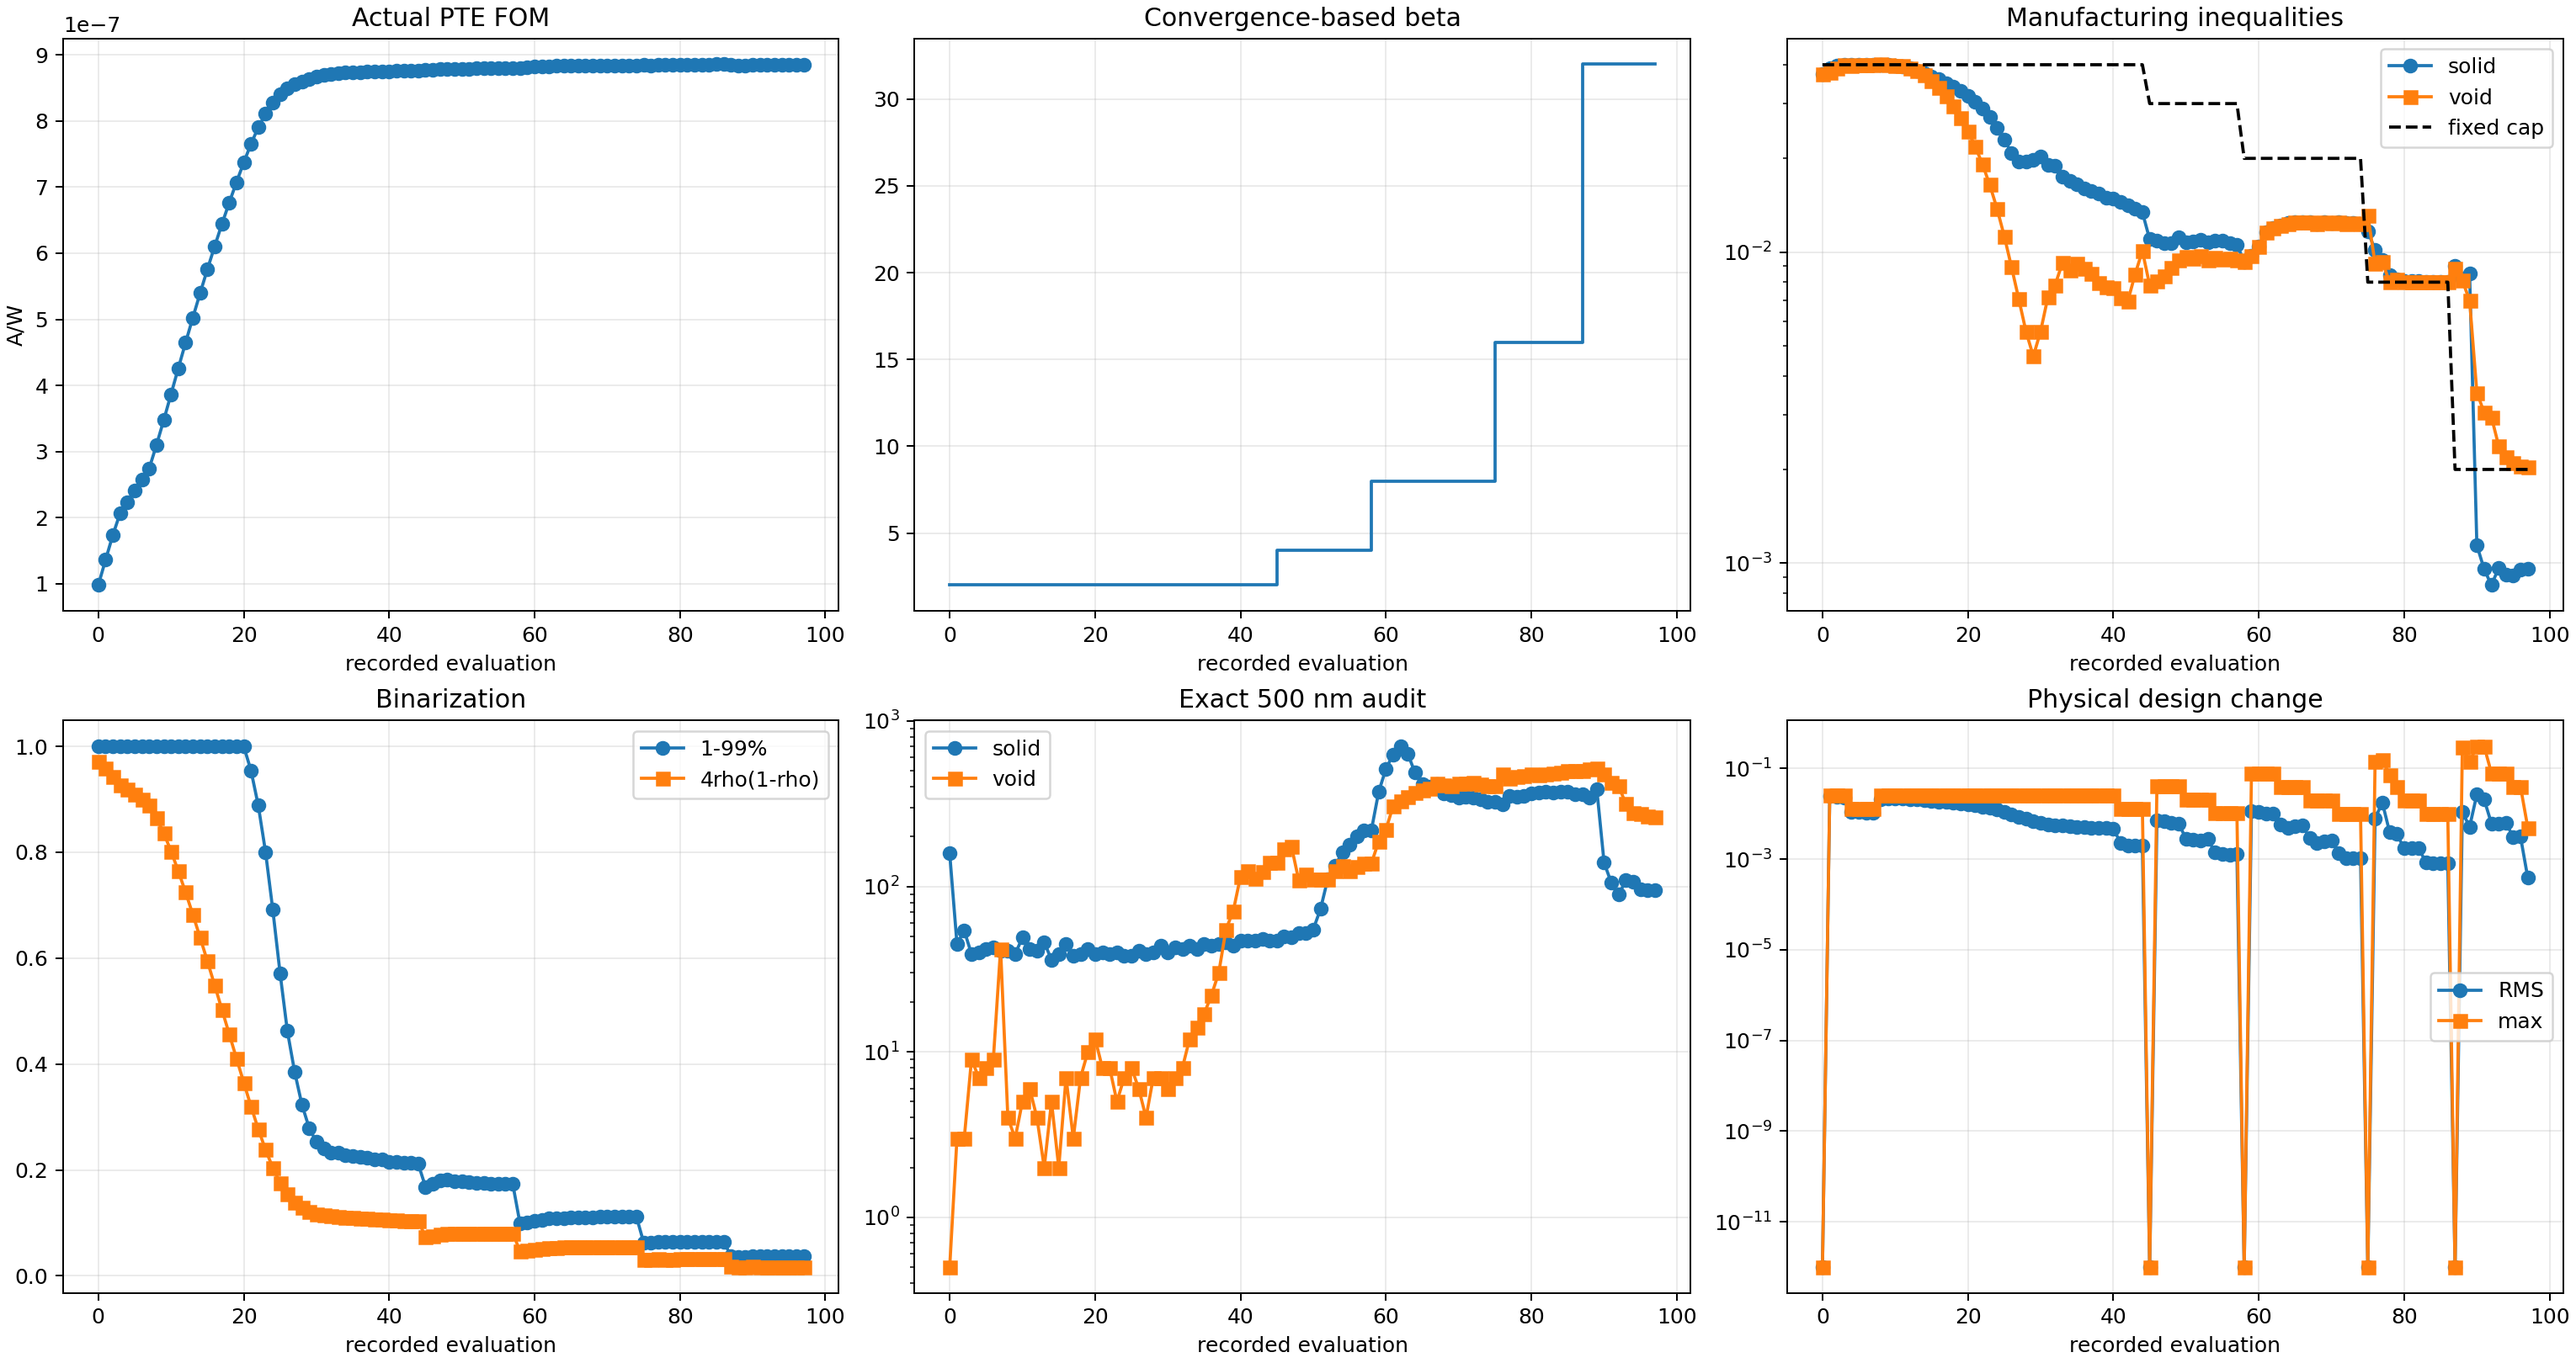
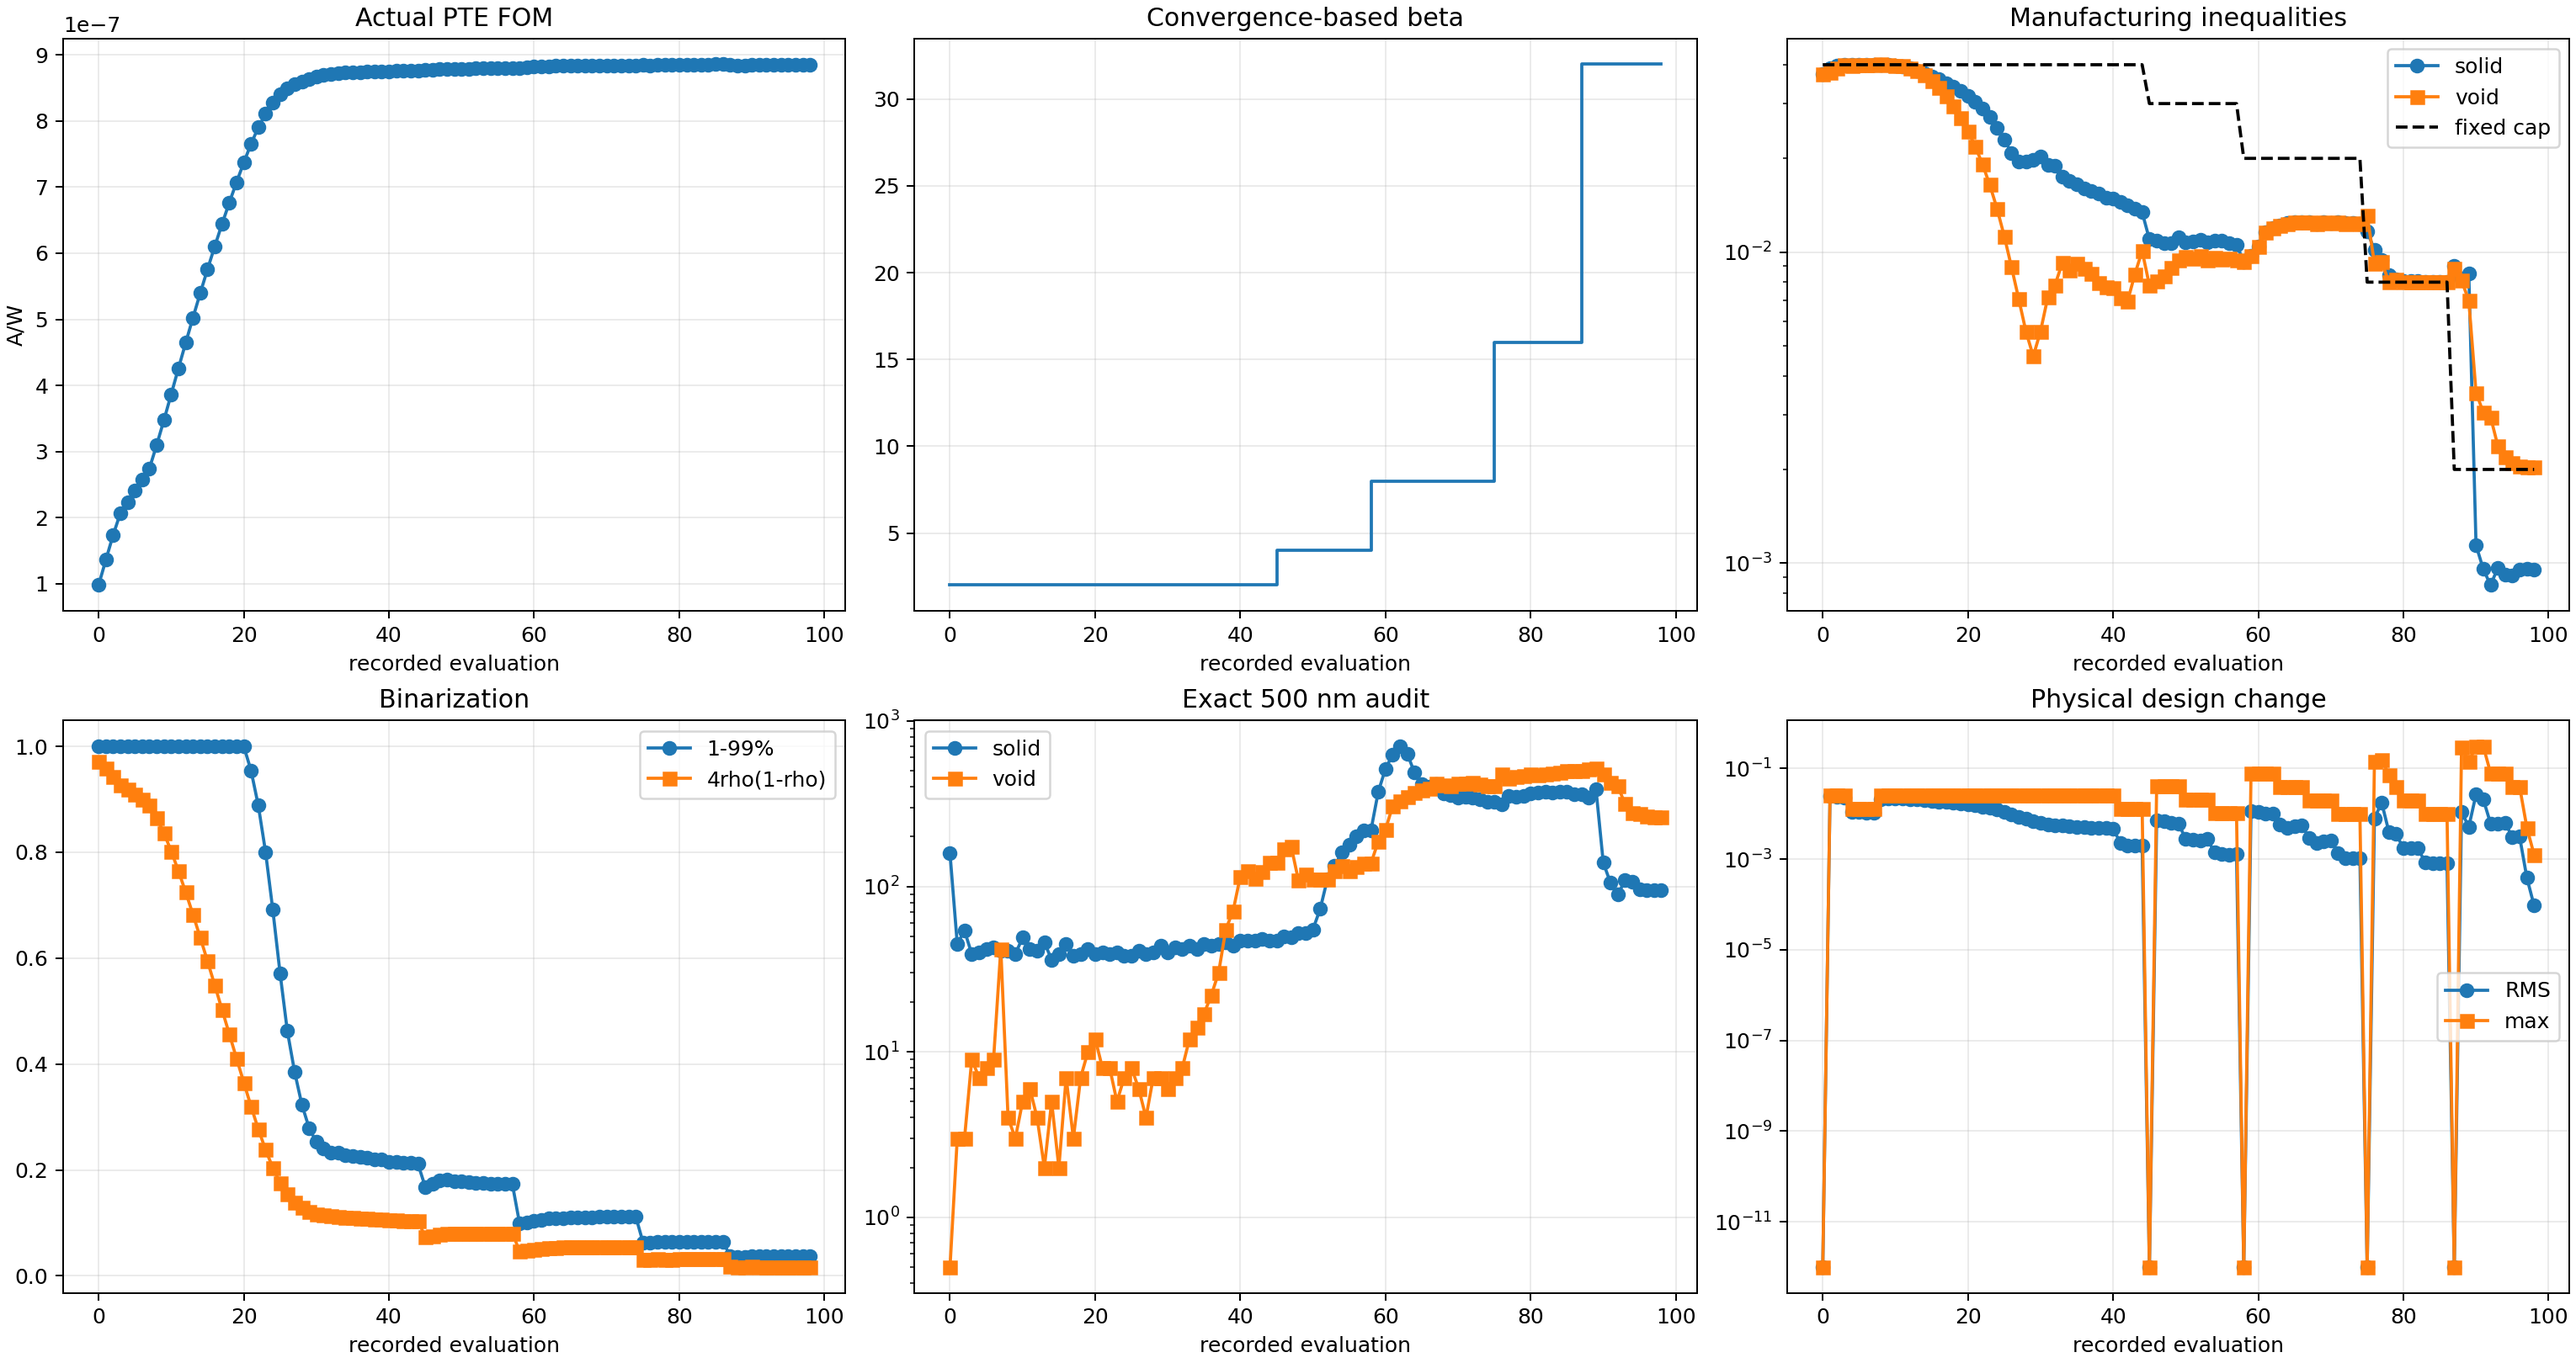
Record Run 003 run003_b032_s011_g094_accepted_mma

diff --git a/photothermal_pte/optimization_runs/run_003_gaussian10_w8p5_current_max_converged/results/OPTIMIZATION_REPORT.md b/photothermal_pte/optimization_runs/run_003_gaussian10_w8p5_current_max_converged/results/OPTIMIZATION_REPORT.md
@@ -2,11 +2,11 @@
 
 Status: `RUNNING_CONVERGENCE_BASED_CONSTRAINED_BETA_CONTINUATION`
 
-Current stage: beta=32, accepted stage iteration=10, global iteration=93.
+Current stage: beta=32, accepted stage iteration=11, global iteration=94.
 
 Constraint contract: `soft_disk_opening_500nm_v3_exact_nonincrease`.
 
-Actual FOM: `8.852211837335e-07 A/W`. Fixed-cap solid/void constraints: `9.559842e-04` / `2.036970e-03` with cap `2.000000e-03`.
+Actual FOM: `8.852202048910e-07 A/W`. Fixed-cap solid/void constraints: `9.543968e-04` / `2.033984e-03` with cap `2.000000e-03`.
 
 Exact 500 nm bad cells: solid `95`, void `264`. Stage convergence: `False` (fixed solid/void inequalities are not feasible).
 
